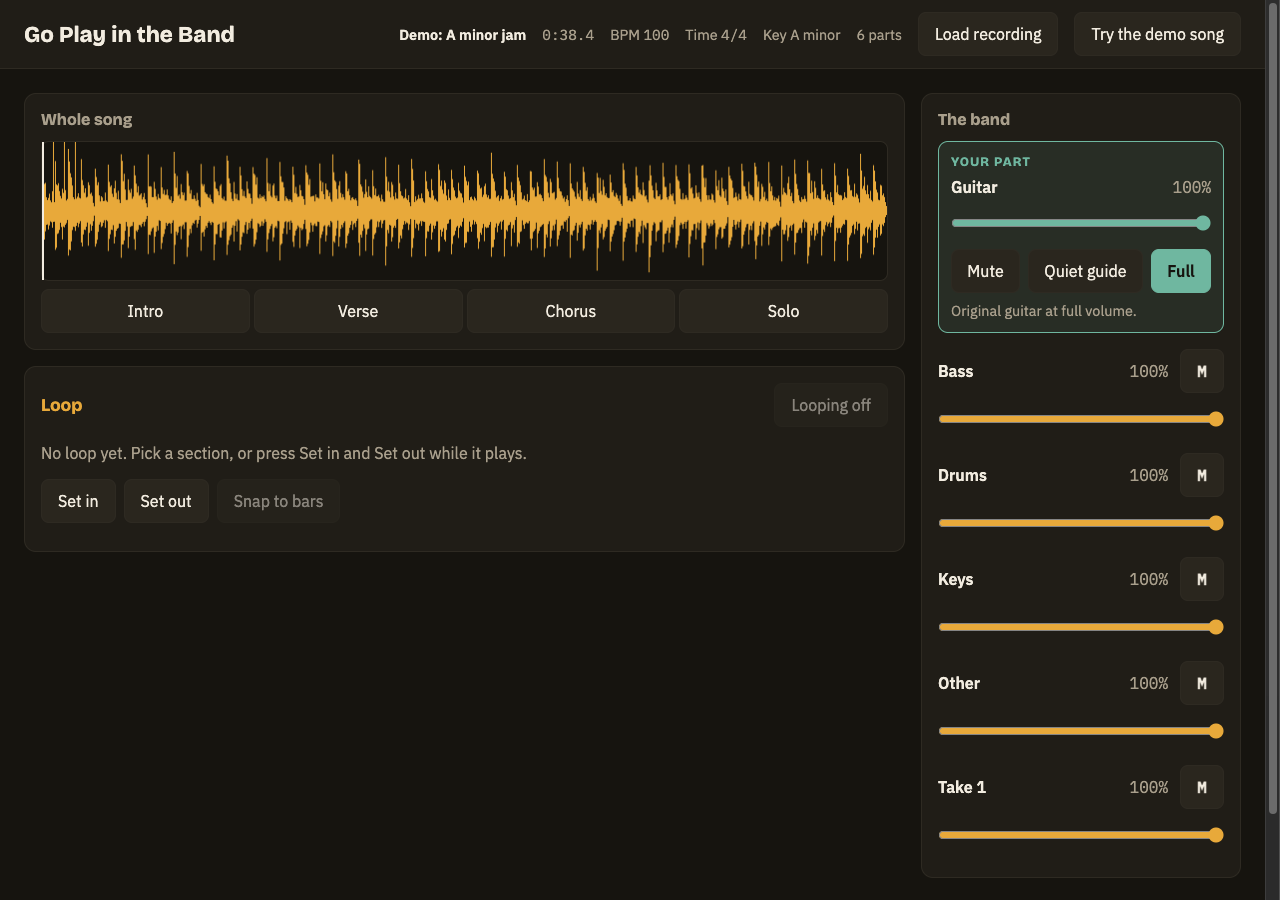
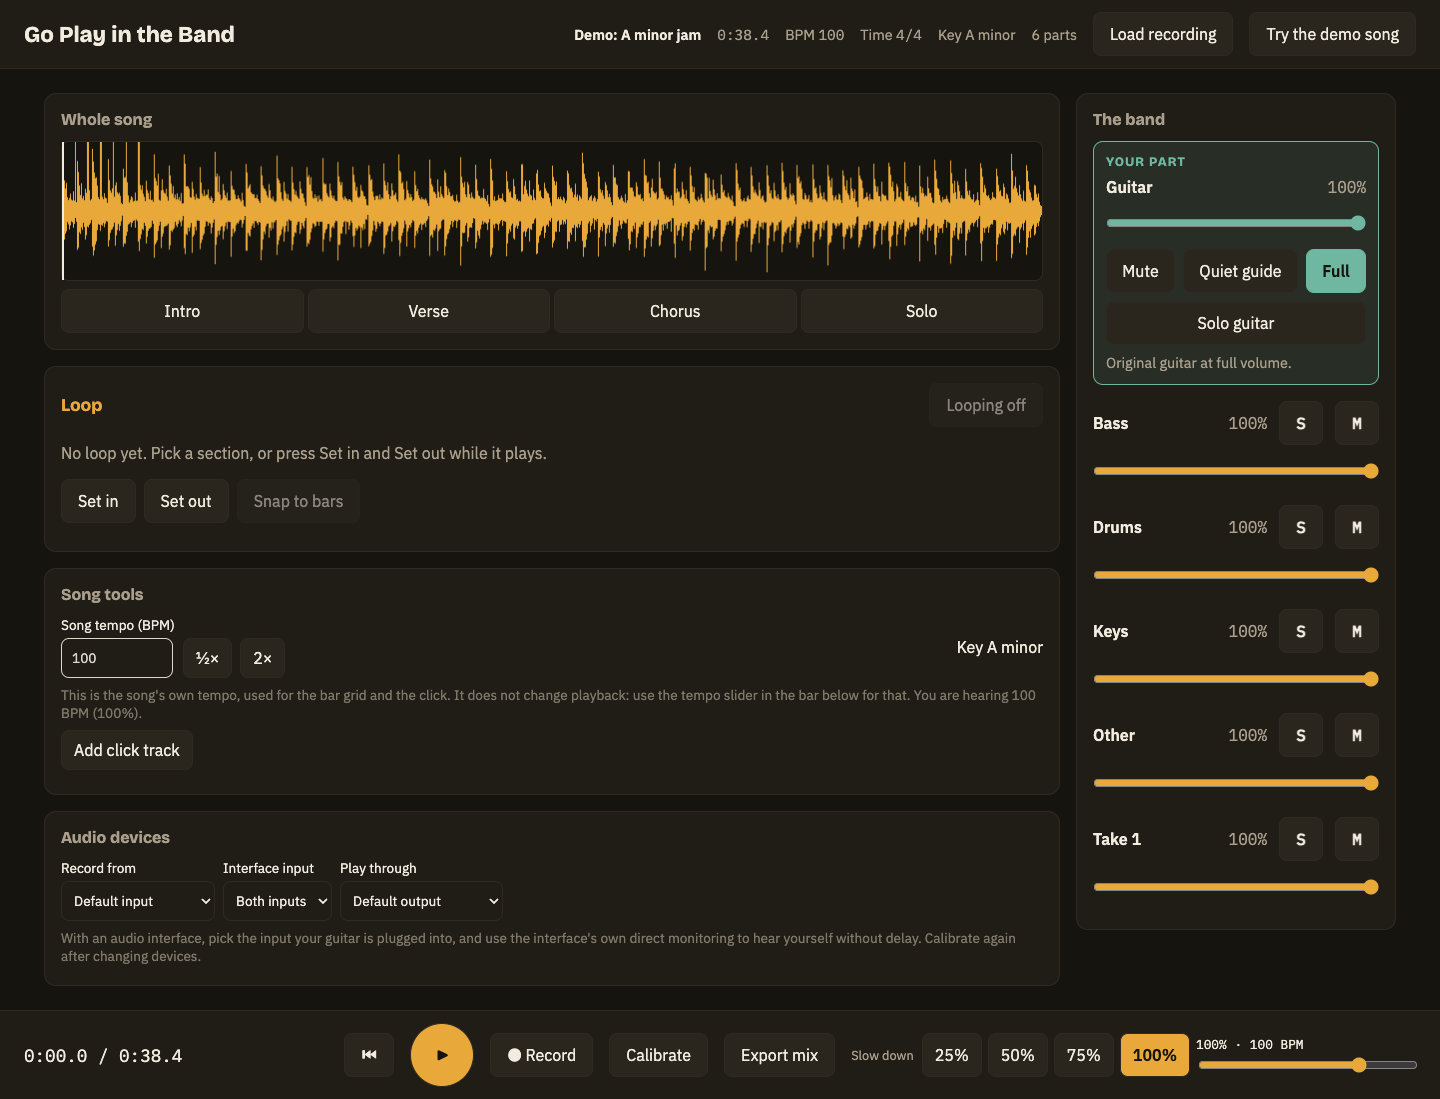
Retake screenshots 01-07 to match the current UI; keep the capture script

diff --git a/CHANGELOG.md b/CHANGELOG.md
@@ -30,3 +30,4 @@ This project is a thought experiment and proof of concept. Nothing here is a rel
 - Stretcher tuned for slow speeds. Plain WSOLA repeated every pick attack when slowing down (a flam on all 18 of 18 test notes at 50% and 25%); attacks now pass through at normal speed and the sustain makes up the length, so each is heard once. Also a normalised, two-stage match search, 75% overlap, and stereo stretched as one unit so left and right cannot drift.
 - Guitar isolation works end to end through Demucs (`htdemucs_6s`): `scripts/install.sh --stems`, `scripts/run-server.sh`, then Instruments. Uses the Apple GPU when there is one (30 s of audio in about 4 s). Silent stems are dropped. Server fixes: the cache never hit, the upload lost its extension, separation blocked the server, and the hosted demo and local app were not allowed to call it.
 - Fix: a recording that separates to guitar only showed a flat waveform and no tempo (the "band" layer was empty). The header no longer calls a lone guitar part a "full mix".
+- Screenshots 01 to 07 retaken: they still showed the old 50/75/90/100% buttons and no solo, song tools or audio devices. `scripts/screenshots.mjs` retakes them in headless Chrome, so they are one command to refresh.

diff --git a/README.md b/README.md
@@ -12,7 +12,7 @@ section, slow it down, and record yourself with the band. TypeScript, plus Rust 
 
 ![The demo song: waveform, a four-bar loop, the band mixer with the guitar muted, speed at 75%](docs/screenshots/03-loop-mute-75.png)
 
-More screenshots: [docs/screenshots](docs/screenshots).
+More screenshots: [docs/screenshots](docs/screenshots). Retake them with `node scripts/screenshots.mjs`.
 
 ## Features
 
